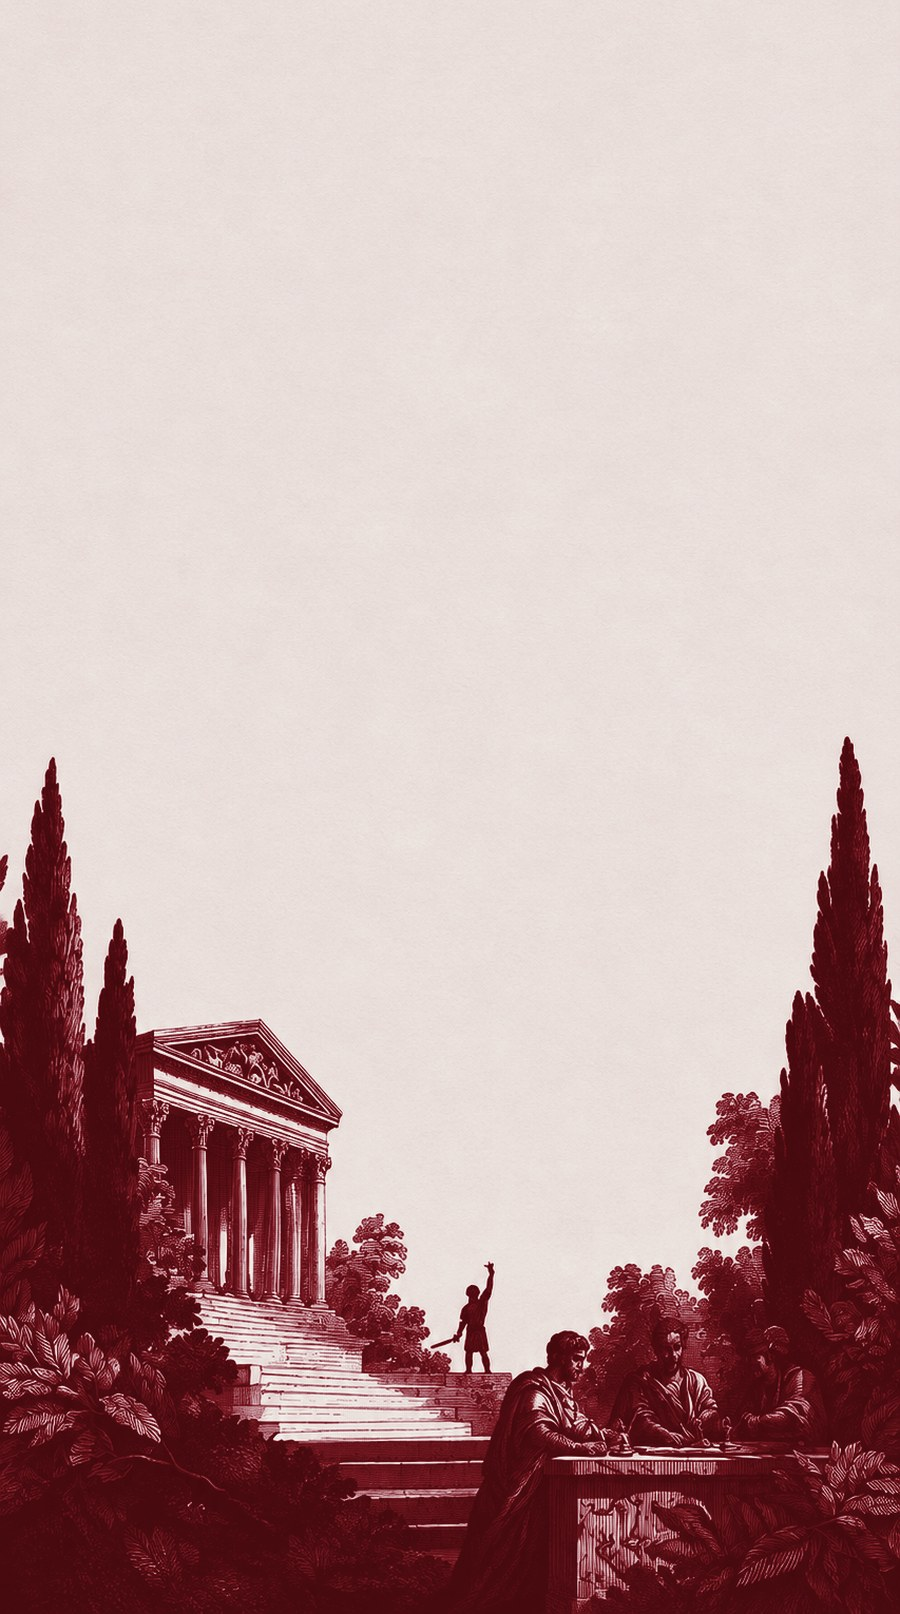
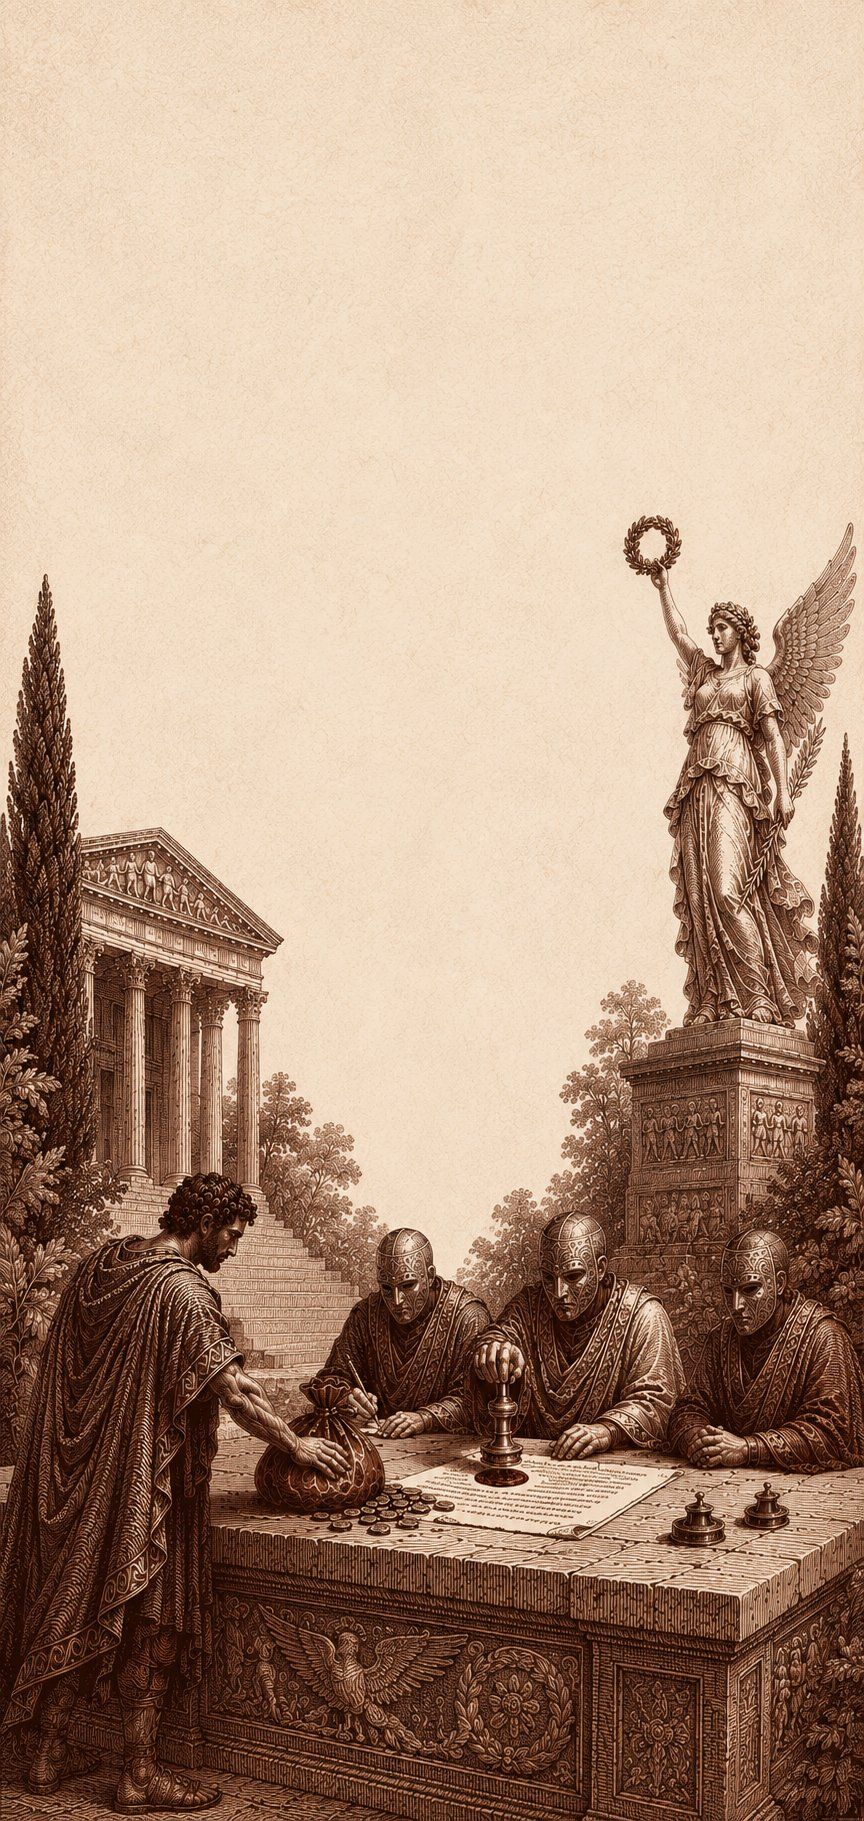
feat(landing): final engraving pair — sepia, coin bag and Victory
Desktop  collateral-plate.jpg         1672x941, 452KB
Mobile   collateral-plate-mobile.jpg   864x1821, 453KB

Supplied as ~3.2MB PNGs each. Re-encoded to JPEG q86 with Windows System.Drawing
via PowerShell — 86% smaller. There is still no sharp or ImageMagick here, but
System.Drawing is an encoder that does exist on this machine, which is what was
missing on the earlier plates.

Dimensions changed again so both locks follow: PLATE_W/H 1600x904 -> 1672x941,
mobile aspect-ratio 900/1612 -> 864/1821. These have to track the file exactly —
mobile uses background-size:100% 100% and relies on the box matching the image.

Verified 1920x1080: fills one frame, 0px top crop, 7px a side. 0% ink under
eyebrow, headline, both CTAs and the wordmark. Contrast against the plate's own
paper: headline 7.51:1, button fill 10.02:1, link 7.51:1 — all AAA.
Verified 390x844: portrait plate, aspect 864/1821, 390x822, full bleed, inside
the viewport, lockup absolute at 100px clearing the header, headline maroon in
three lines. Ink under type 0% except the headline at 1.1%, which is the top of
the Victory statue's wing entering the headline box — light, not dark.

TWO THINGS THAT NEED A DECISION, both raised rather than changed:

1. The plate's paper is warmer than the site's. Measured rgb(234,217,199)
   desktop and rgb(239,217,193) mobile, against --paper rgb(241,238,232). The
   hero's own background-color and every section below it use the token, so
[…]

diff --git a/FRONTEND/src/components/CollateralHero.js b/FRONTEND/src/components/CollateralHero.js
@@ -36,11 +36,14 @@
  * ─────────────────────────────────────────────────────────────────────────────
  */
 
-// 1600x915 JPEG, 194KB. Replaced a 1363x778 PNG that was 1.8MB on the LCP
-// element — an 89% reduction. This source already bleeds to its own edges, so
-// unlike the previous plate it needs no margin crop.
-const PLATE_W = 1600;
-const PLATE_H = 915;
+// Desktop plate: 1672x941 JPEG, 452KB. Mobile has its own portrait crop,
+// 864x1821 JPEG at 453KB, wired in the max-width:820px block.
+//
+// Both were supplied as ~3.2MB PNGs and re-encoded to JPEG q86 via Windows
+// System.Drawing — an 86% reduction. There is still no sharp or ImageMagick
+// here; System.Drawing is the encoder that does exist on this machine.
+const PLATE_W = 1672;
+const PLATE_H = 941;
 
 function escapeHtml(value) {
     return String(value)
@@ -137,7 +140,7 @@ export function renderCollateralHero(options = {}) {
 
            The hero is exactly ONE viewport tall so the whole thing sits in a
            single frame at scroll-top, with nothing cut off the bottom. cover +
-           bottom anchor is what makes that safe: the plate is 1600x915 and the
+           bottom anchor is what makes that safe: the plate is 1672x941 and the
            frame is usually taller in ratio, so something has to give, and what
            gives is the TOP BAND OF EMPTY SKY. The temple, the figures at the
            desk and the ground line are pinned to the bottom edge and never
@@ -275,7 +278,7 @@ export function renderCollateralHero(options = {}) {
              sides, which is the "it needs to be full screen" problem from
              earlier. */
           .clt-hero{
-            aspect-ratio:900 / 1614 !important;
+            aspect-ratio:864 / 1821 !important;
             height:auto !important;
             padding:0;
             width:100vw;
